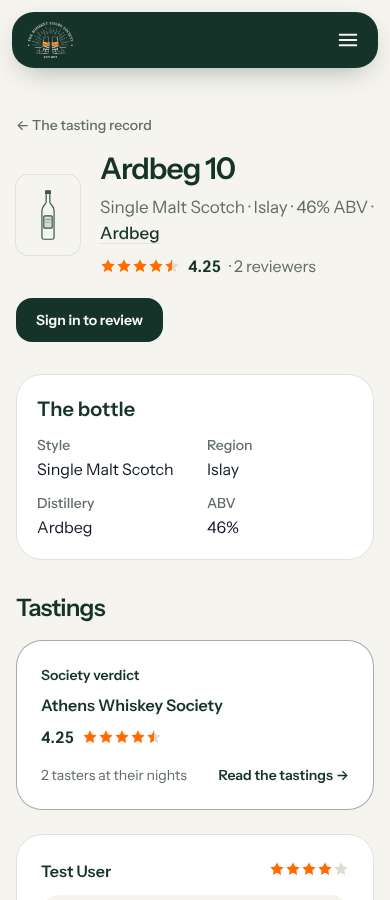
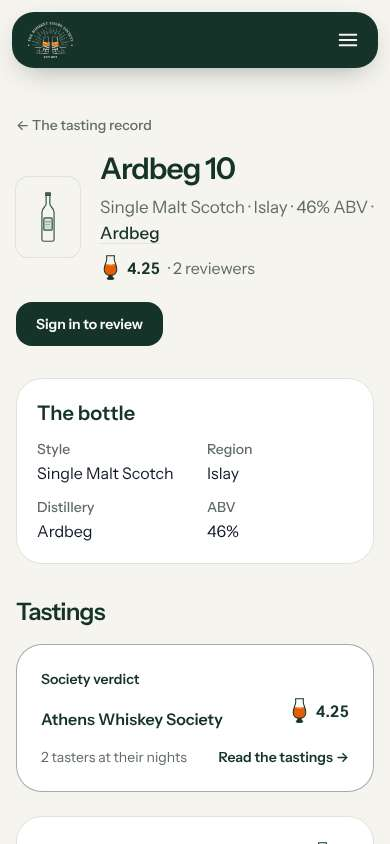
G1b: One score language — the glass beside its number across the tasting record
New shared/_score wraps the one glass partial (level = score/5) with the
number in tabular-nums and sr-only 'out of 5'. Star display rows are replaced
on reviews, bottles, review pages, profiles, decks, society member reviews and
the event's pours; star inputs unchanged; bottles/_rating removed. Glass added
to DESIGN_SYSTEM components; wss-reviews skill updated; gallery images
refreshed.

Claude-Session: https://claude.ai/code/session_012RnJvNgGH27bkzmexhXACF

diff --git a/test/integration/bottles_test.rb b/test/integration/bottles_test.rb
@@ -68,7 +68,7 @@ class BottlesTest < ActionDispatch::IntegrationTest
     assert_match "Cherry and oak", response.body # the review feed
   end
 
-  test "bottle page shows honest fractional average and doesn't lose a star glyph" do
+  test "bottle page shows the honest fractional average as one glass beside its number" do
     Review.create!(
       user: users(:jane),
       bottle: bottles(:eagle_rare),
@@ -79,10 +79,10 @@ class BottlesTest < ActionDispatch::IntegrationTest
     get bottle_path(bottles(:eagle_rare))
     assert_response :success
     assert_match "4.25", response.body # true average of 4.0 and 4.5
-    label = css_select("span.sr-only").find { |el| el.text == "4.25 out of 5" }
-    assert label, "the rating carries its value as text"
-    stars = label.parent.css("svg[data-star]").map { |svg| svg["data-star"] }
-    assert_equal %w[full full full full half], stars
+    score = css_select("header [data-score='4.25']").first
+    assert score, "the average is shown as a score"
+    assert_equal "0.85", score.at_css("svg[data-glass]")["data-glass"]
+    assert_match(/4\.25\s+out of 5/, score.text)
   end
 
   test "a review has its own page, publicly readable and linked from the feed" do

diff --git a/test/integration/glass_scores_test.rb b/test/integration/glass_scores_test.rb
@@ -1,0 +1,28 @@
+require "test_helper"
+
+# G1b: scores are shown as one glass beside the number, never as stars.
+class GlassScoresTest < ActionDispatch::IntegrationTest
+  test "the reviews index shows each bottle's score as a glass with its number" do
+    get reviews_path
+    assert_response :success
+    scores = css_select("[data-score]")
+    assert scores.any?
+    scores.each do |score|
+      assert_equal 1, score.css("svg[data-glass]").size
+      assert_match(/\A#{Regexp.escape(score["data-score"])}\s+out of 5\z/, score.text.strip)
+    end
+    assert_empty css_select("svg[data-star]")
+  end
+
+  test "a bottle page and a review page show glasses with scores and no stars" do
+    get bottle_path(bottles(:eagle_rare))
+    assert_response :success
+    assert css_select("[data-score] svg[data-glass]").any?
+    assert_empty css_select("svg[data-star]")
+
+    get review_path(reviews(:john_eagle_rare))
+    assert_response :success
+    assert css_select("[data-score] svg[data-glass]").any?
+    assert_empty css_select("svg[data-star]")
+  end
+end

diff --git a/test/integration/profile_shelf_test.rb b/test/integration/profile_shelf_test.rb
@@ -12,7 +12,7 @@ class ProfileShelfTest < ActionDispatch::IntegrationTest
     assert_response :success
     assert_select "#whiskey-shelf a[href=?]", bottle_path(bottles(:eagle_rare)), text: "Eagle Rare 10"
     shelf = css_select("#whiskey-shelf").first.text
-    assert_includes shelf, "4.0"
+    assert css_select("#whiskey-shelf [data-score='4'] svg[data-glass]").any?
     assert_includes shelf, "1 tasting"
   end
 

diff --git a/.claude/skills/wss-reviews/SKILL.md b/.claude/skills/wss-reviews/SKILL.md
@@ -29,7 +29,7 @@ read before extending). Plans in `docs/superpowers/plans/2026-07-06-*` and `-07-
   one solo per bottle.
 - Aggregation: `Bottle#average_rating` = mean of each user's LATEST review across
   contexts. `Bottle.with_score` computes the same in SQL (`avg_rating`/`reviewers`).
-- `bottles/_rating`: stars snap to nearest 0.5; `aria-label` carries the true value.
+- Scores are DISPLAYED with `shared/_score` (one glass from `shared/_glass` at level score/5, beside the number in tabular-nums, sr-only "out of 5"); the old star display partial is gone. Stars survive only as the INPUT control (`star_rating_controller`, `reviews/_form`, `shared/_star_input`). Never draw a second glass or show a glass without its number.
 - Solo CRUD: create nested under bottle (`Bottles::ReviewsController`); edit/delete
   top-level (`ReviewsController`, scoped `current_user.reviews` → 404 for non-authors).
 
@@ -81,7 +81,7 @@ read before extending). Plans in `docs/superpowers/plans/2026-07-06-*` and `-07-
   bottle from its event reviews — same latest-per-member math (`DISTINCT ON (user_id,
   society_id)`) as the board. Rows expose `verdict_avg` / `verdict_reviewers`. These
   cards LEAD the Tastings list on `bottles#show` (`_society_verdict_card.html.erb`).
-- Card body: aggregate stars + `Review.common_descriptors(reviews)` (review.rb:95 — most
+- Card body: aggregate score (glass + number) + `Review.common_descriptors(reviews)` (review.rb:95 — most
   common lexicon words per tasting section, each review counts a word once so one wordy
   taster can't dominate) and `Review.blended_wheel(reviews)` (review.rb:144 — mean of
   each member's wheel profile per family, renormalized).

diff --git a/docs/redesign/DESIGN_SYSTEM.md b/docs/redesign/DESIGN_SYSTEM.md
@@ -81,6 +81,13 @@ Rules:
 
 ## Components
 
+- **Glass**: the logo's tasting glass, flat and line-drawn, with an orange level. One shared
+  partial, `shared/_glass` (a score is shown through `shared/_score`, which wraps it); it is never
+  redrawn anywhere else. For a score, `level` is score / 5; for the table (RSVPs) going is 1, maybe
+  0.5, unanswered 0; in a verdict the numeral is the serve order. Tones: `:ink` on paper and white,
+  `:cream` on green. Minimum size 28px. It always sits beside its number or count (or carries
+  sr-only text), is aria-hidden, and has no shading or animation. Replaces star rows for display;
+  the half-step star control in review forms is an input and stays.
 - **Primary button**: `btn btn-primary` (green, white text, 16px radius). One per view.
 - **Secondary button**: `btn btn-secondary` (white, hairline).
 - **Text link with arrow**: bold ink text followed by `→`.
